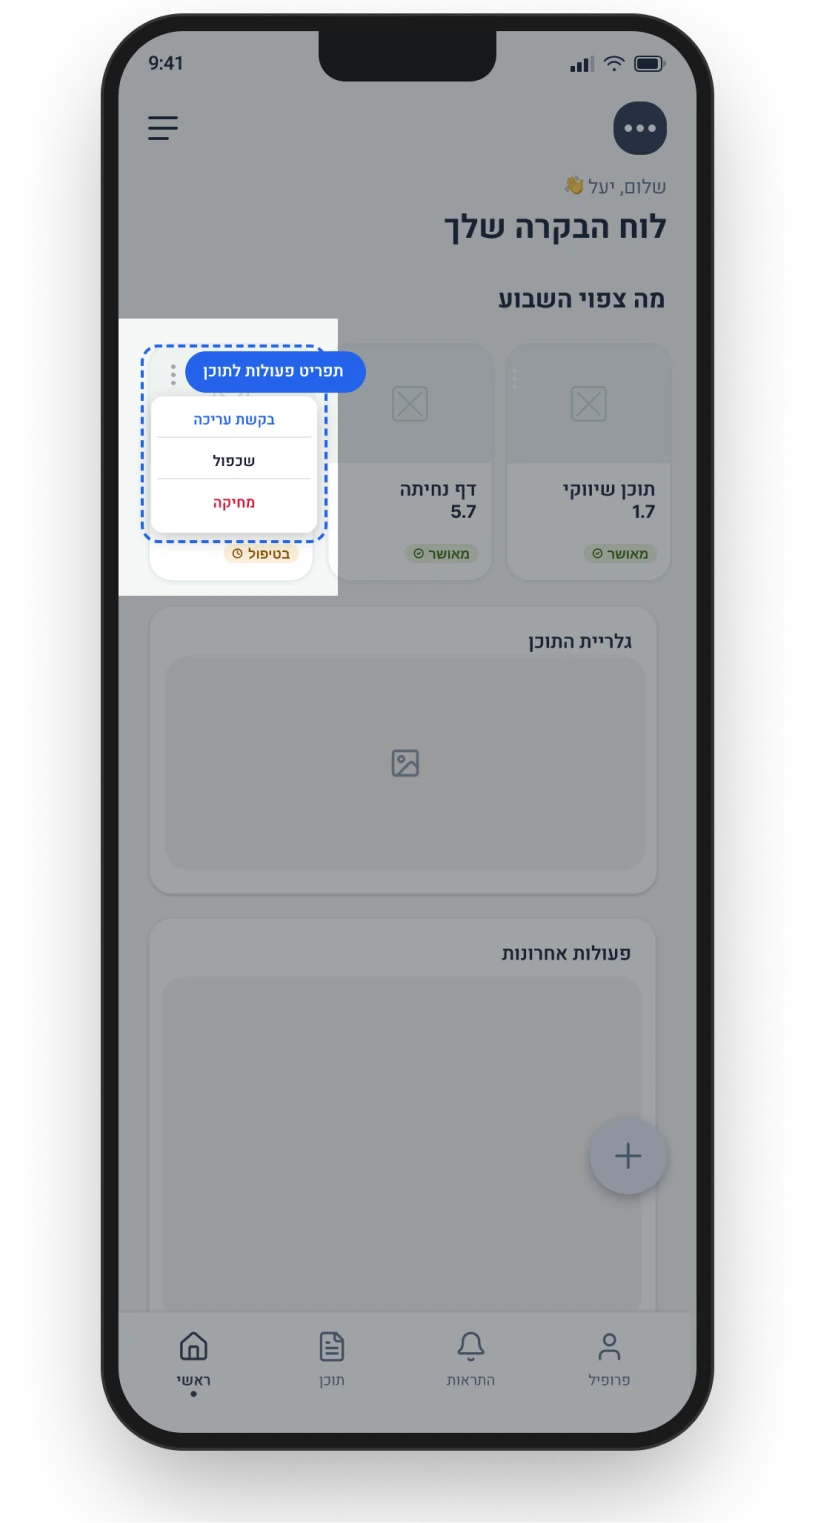
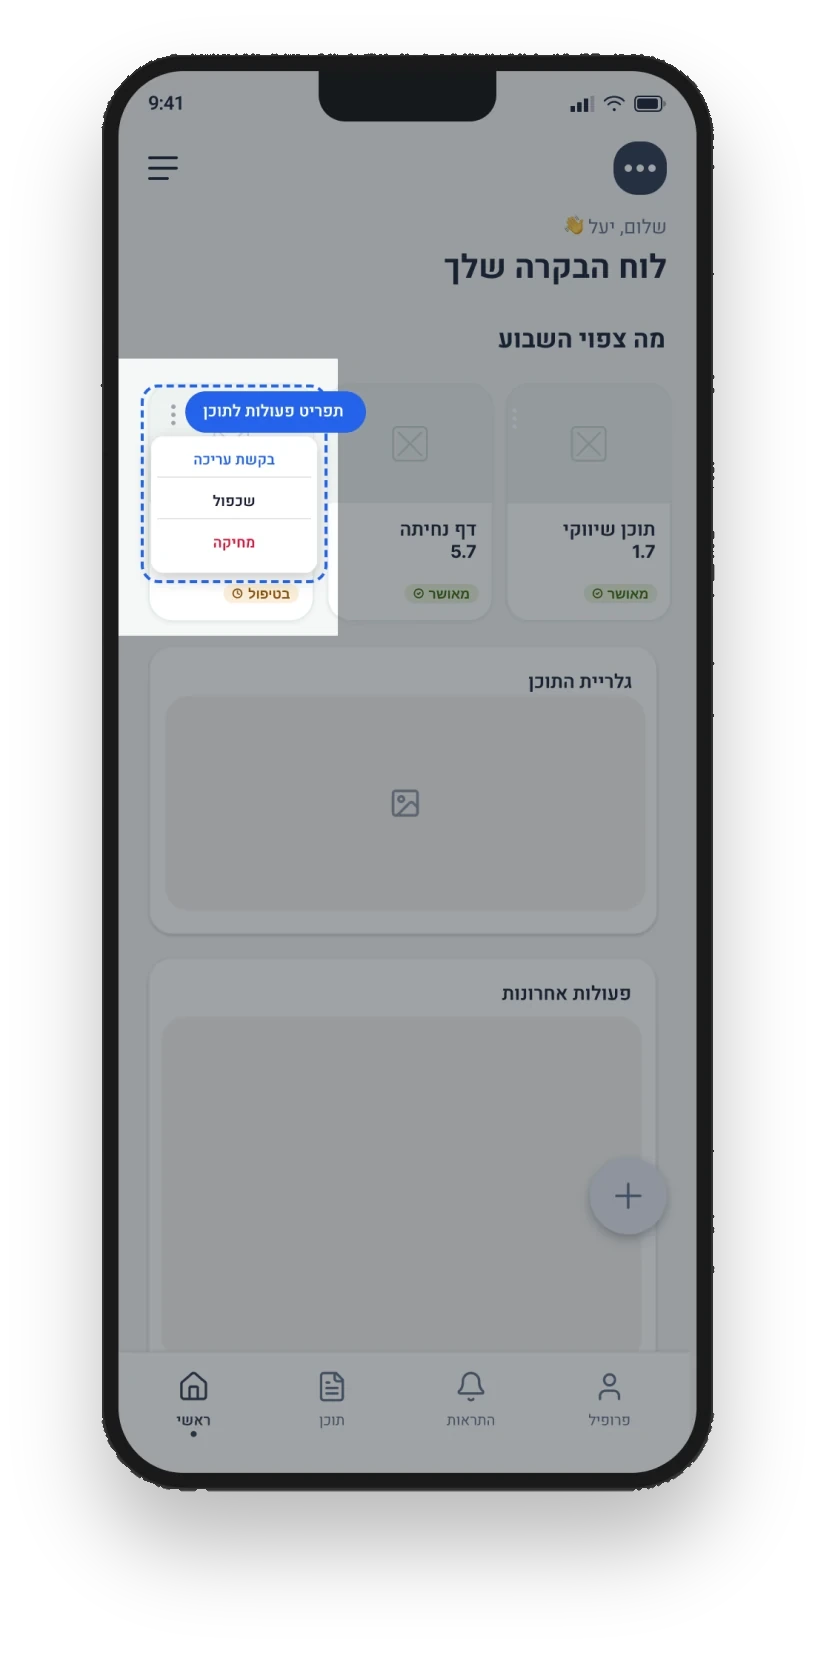
תיקונים

diff --git a/work-b2b.html b/work-b2b.html
@@ -348,8 +348,8 @@ img.b2b-img-slot{ width:100%; height:100%; object-fit:contain; padding:0; displa
         </div>
 
         <div class="b2b-compare" style="margin-top:24px;">
-          <div class="b2b-compare-col"><div class="cap" data-i18n="b2b-sol2-cap1">After: new content request</div><img class="b2b-img-slot" style="aspect-ratio:815/1523;" src="assets/b2b-sol2-after-newcontent.webp" alt="After screen: new content request" data-i18n-alt="b2b-sol2-alt1"></div>
-          <div class="b2b-compare-col"><div class="cap" data-i18n="b2b-sol2-cap2">After: quick edit request</div><img class="b2b-img-slot" style="aspect-ratio:815/1523;" src="assets/b2b-sol2-after-quickedit.webp" alt="After screen: quick edit request" data-i18n-alt="b2b-sol2-alt2"></div>
+          <div class="b2b-compare-col"><div class="cap" data-i18n="b2b-sol2-cap1">After: new content request</div><img class="b2b-img-slot" style="aspect-ratio:815/1656;" src="assets/b2b-sol2-after-newcontent.webp" alt="After screen: new content request" data-i18n-alt="b2b-sol2-alt1"></div>
+          <div class="b2b-compare-col"><div class="cap" data-i18n="b2b-sol2-cap2">After: quick edit request</div><img class="b2b-img-slot" style="aspect-ratio:815/1656;" src="assets/b2b-sol2-after-quickedit.webp" alt="After screen: quick edit request" data-i18n-alt="b2b-sol2-alt2"></div>
         </div>
         <div class="b2b-quote blue big"><p data-i18n="b2b-sol2-stat">An estimate based on subscriber response: roughly 10–15% of subscribers used the new button to submit a request in the month it launched, instead of reaching out to the CS team.</p></div>
       </div>
@@ -386,9 +386,9 @@ img.b2b-img-slot{ width:100%; height:100%; object-fit:contain; padding:0; displa
         <div class="b2b-sol-quote"><p data-i18n="b2b-sol4-quote">Customers used what felt familiar and safe. They couldn't find the interface's chat.</p></div>
         <p class="b2b-body" data-i18n="b2b-sol4-body">The in-app chat existed, but no one saw it because it was hidden in a side menu. So customers used WhatsApp, because that's what they knew. To get customers operating within the interface, I proposed moving chat access to a prominent, familiar location. The choice of a floating position came from the fact that it's a familiar user behavior from other interfaces. There was no need to teach users a new pattern, just to lean on an intuitive process they already knew, used, and trusted.</p>
         <div class="b2b-compare">
-          <div class="b2b-compare-col muted"><div class="cap" data-i18n="b2b-sol4-cap1">Before: side menu</div><img class="b2b-img-slot" style="aspect-ratio:467/902;" src="assets/b2b-sol4-before-sidemenu.webp" alt="The chat, hidden in the side menu" data-i18n-alt="b2b-sol4-alt1"></div>
-          <div class="b2b-compare-col muted"><div class="cap" data-i18n="b2b-sol4-cap2">Before: plus button</div><img class="b2b-img-slot" style="aspect-ratio:467/902;" src="assets/b2b-sol4-before-plus.webp" alt="The existing path via the plus button" data-i18n-alt="b2b-sol4-alt2"></div>
-          <div class="b2b-compare-col"><div class="cap" data-i18n="b2b-cap-after">After</div><img class="b2b-img-slot" style="aspect-ratio:467/902;" src="assets/b2b-sol4-after.webp" alt="New floating position for chat" data-i18n-alt="b2b-sol4-alt3"></div>
+          <div class="b2b-compare-col muted"><div class="cap" data-i18n="b2b-sol4-cap1">Before: side menu</div><img class="b2b-img-slot" style="aspect-ratio:467/952;" src="assets/b2b-sol4-before-sidemenu.webp" alt="The chat, hidden in the side menu" data-i18n-alt="b2b-sol4-alt1"></div>
+          <div class="b2b-compare-col muted"><div class="cap" data-i18n="b2b-sol4-cap2">Before: plus button</div><img class="b2b-img-slot" style="aspect-ratio:467/952;" src="assets/b2b-sol4-before-plus.webp" alt="The existing path via the plus button" data-i18n-alt="b2b-sol4-alt2"></div>
+          <div class="b2b-compare-col"><div class="cap" data-i18n="b2b-cap-after">After</div><img class="b2b-img-slot" style="aspect-ratio:467/952;" src="assets/b2b-sol4-after.webp" alt="New floating position for chat" data-i18n-alt="b2b-sol4-alt3"></div>
         </div>
         <div class="b2b-quote"><p style="color:#475569; font-style:normal; font-weight:400;" data-i18n="b2b-sol4-goal">The goal: encourage customers to stay within the interface instead of switching to WhatsApp, with full documentation and better continuity for the team.</p></div>
       </div>
